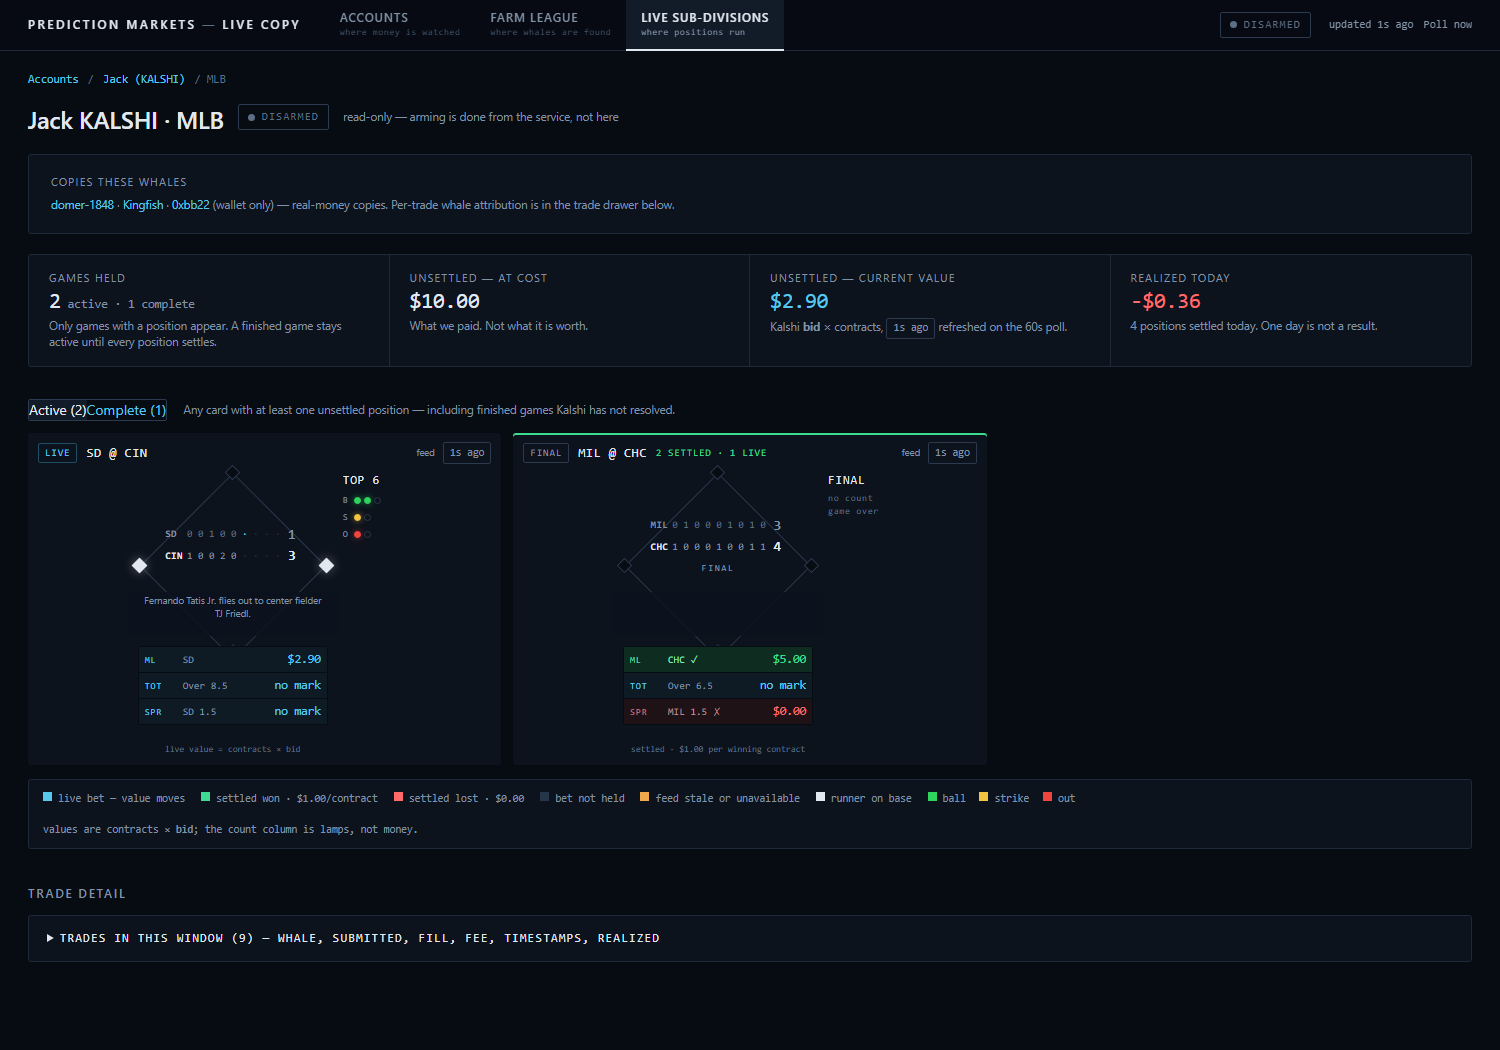
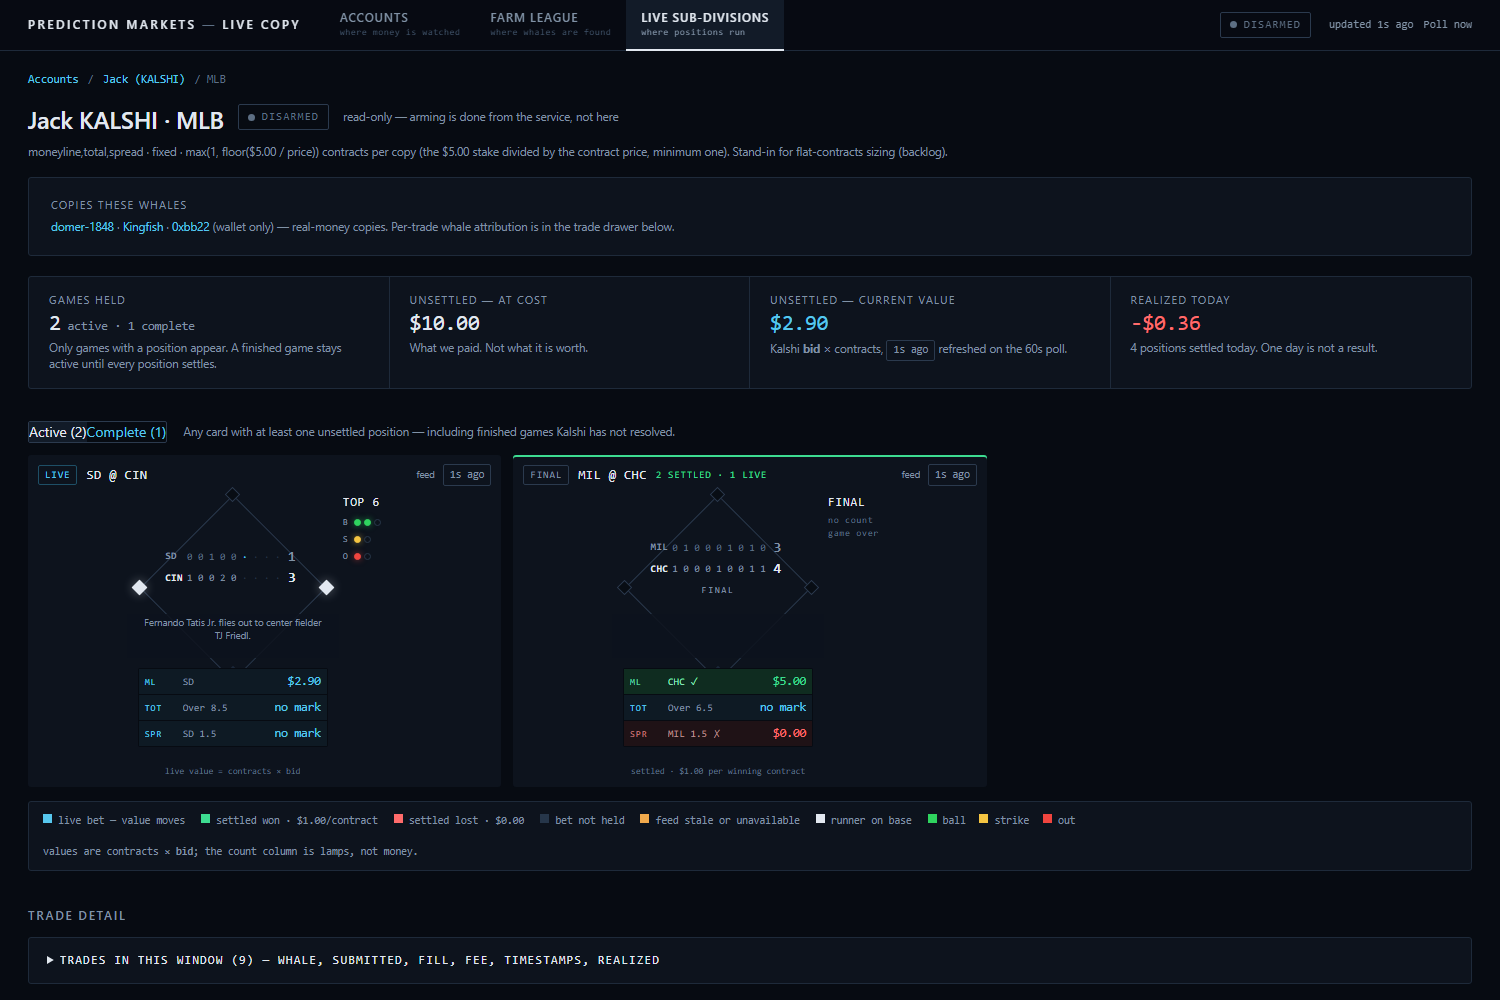
pm_web UI: reconcile pre-existing page tests to the redesign + restore dropped features
Ran the FULL prediction_markets suite: found the redesign broke page-render tests written for the old /live
table + shell (test_live_r3, test_stage2_nav/phase3, test_accounts_m2). Addressed honestly:
 - RESTORED genuine features the redesign dropped: the sizing-behaviour + config line on /live ('/usr/bin/bash.01 = 1
   contract, not a cent'), the account display-only limitation copy, the balance cadence hint. Gated the
   account aggregate figs on pm_traded (no zeroed P&L frame for a display-only account).
 - UPDATED test assertions where wording/markup legitimately changed to the copy-desk design (nav wraps label
   in <b>; arm badge 'GLOBAL DISARMED'; 'at cost'/'Cash by shard' labels; status-CELL markup for settlement!=
   exit since the drawer footer explains all four states; age shown as a chip). Safety/honesty intent preserved.
Remaining 16 full-dir failures are the pre-existing env-gap baseline (engine driver needs pykalshi, not in the
test venv) + a stale schema-15 assertion (base is schema 17) -- NOT pm_web, unchanged by this work.

diff --git a/trading_corp/prediction_markets/web/templates/pm_account.html b/trading_corp/prediction_markets/web/templates/pm_account.html
@@ -26,7 +26,7 @@
   </tbody></table>
   <p class="caveat" style="margin:10px 0 0">Only the division's funding shard can be spent on this division. Each balance shows its own age.</p>
   {% else %}
-  <p class="caveat" style="margin:10px 0 0">No balance snapshot yet{% if not shard_snap_table %} (the snapshot store is not present){% endif %}.</p>
+  <p class="caveat" style="margin:10px 0 0">No balance snapshot yet{% if not shard_snap_table %} (the snapshot store is not present){% else %} (snapshots are written every 5 minutes){% endif %}.</p>
   {% endif %}
 {% endmacro %}
 
@@ -35,11 +35,14 @@
   <div style="display:flex;align-items:center;gap:14px;margin-top:4px;flex-wrap:wrap">
     <h1>{{ account.account_label or account.account_id }} &middot; {{ account.venue or 'kalshi' }}</h1>
     <span class="tag trading">TRADING</span>
-    <span class="badge {{ 'armed' if global_arm.get('global_armed') else 'disarmed' }}"><span class="dot"></span>{{ 'ARMED' if global_arm.get('global_armed') else 'DISARMED' }}</span>
+    <span class="badge {{ 'armed' if global_arm.get('global_armed') else 'disarmed' }}"><span class="dot"></span>GLOBAL {{ 'ARMED' if global_arm.get('global_armed') else 'DISARMED' }}</span>
     <span class="caveat" style="margin-left:2px">read-only &mdash; arming is done from the service, not here</span>
   </div>
 
   <h2>Aggregate performance</h2>
+  {% if not account.pm_traded %}
+  <div class="panel pad"><p class="caveat" style="margin:0">This account is display-only &mdash; not traded by Prediction Markets, so there is no aggregate P&amp;L to show. Its balance below may still be spent by another system.</p></div>
+  {% else %}
   <div class="panel pad">
     <div class="figs">
       <div class="fig"><div class="lbl">Realized P&amp;L</div>
@@ -56,6 +59,7 @@
         <div class="caveat">Kalshi <b>bid</b> &times; contracts{% if value_as_of %}, {{ agechip(now_ts - value_as_of, 180) }}{% endif %}.</div></div>
     </div>
   </div>
+  {% endif %}
 
   <h2>Sub-divisions</h2>
   {% if account.subdivisions %}
@@ -79,7 +83,7 @@
   </div>
   {% endfor %}
   {% else %}
-  <div class="panel pad"><p class="caveat" style="margin:0">No PM sub-divisions on this account &mdash; <strong>not traded by Prediction Markets</strong>. Display-only; the balance below may still be spent by another system.</p></div>
+  <div class="panel pad"><p class="caveat" style="margin:0">This account has no Prediction Markets sub-divisions &mdash; <strong>not traded by Prediction Markets</strong>. It is display-only; the balance below may still be spent by another system.</p></div>
   {% endif %}
 
   <h2>Cash by shard</h2>

diff --git a/trading_corp/prediction_markets/web/templates/pm_live_subdivision.html b/trading_corp/prediction_markets/web/templates/pm_live_subdivision.html
@@ -147,6 +147,7 @@
     <span class="badge {{ 'armed' if arm.get('effective_armed') else 'disarmed' }}"><span class="dot"></span>{{ 'ARMED' if arm.get('effective_armed') else 'DISARMED' }}</span>
     <span class="caveat">read-only &mdash; arming is done from the service, not here</span>
   </div>
+  <p class="caveat" style="margin-top:6px">{{ sub.market_types or category|upper }} &middot; {{ sizing_summary }}</p>
 
   {% if warming %}
   <p class="caveat" style="margin-top:14px">Feed cache is warming up (first {{ poll_interval }}s poll not yet complete) &mdash; current values and scores appear once the poller has run.</p>

diff --git a/trading_corp/prediction_markets/web/templates/pm_accounts.html b/trading_corp/prediction_markets/web/templates/pm_accounts.html
@@ -84,7 +84,7 @@
     {% endfor %}
   </div>
   {% else %}
-  <div class="panel pad" style="margin-top:26px"><p class="caveat" style="margin:0">No accounts visible. An account appears here once provisioned and owned by your identity (admins see all).</p></div>
+  <div class="panel pad" style="margin-top:26px"><p class="caveat" style="margin:0">No accounts yet &mdash; an account appears here once provisioned (and owned by your identity; admins see all).</p></div>
   {% endif %}
 {% endblock %}
 

diff --git a/tests/prediction_markets/test_live_r3.py b/tests/prediction_markets/test_live_r3.py
@@ -108,39 +108,32 @@ def test_live_tile_shows_trade_count_once_traded(monkeypatch, tmp_path):
 
 
 def test_live_subdivision_honest_empty_wording(monkeypatch, tmp_path):
-    """Honest-empty for a sub-division that truly has not traded -- but the wording must NOT imply the engine does
-    not exist (the old 'Live copies arrive with the execution engine' is gone)."""
+    """Honest-empty for a sub-division that truly has not traded, with no wording implying the engine does not
+    exist. (Redesign: no game cards + an empty trade drawer; the old table's 'No open positions' is now 'no games'.)"""
     cl = _client(monkeypatch, tmp_path, schema=10, seed=True)   # no orders
     r = cl.get("/live/kalshi_jack/mlb")
     assert r.status_code == 200
-    assert "No live trades yet" in r.text
+    assert "No live trades yet" in r.text                       # the trade drawer's honest-empty
     assert "arrive with the execution engine" not in r.text
-    assert "No open positions" in r.text
+    assert "No active games held" in r.text                     # no game cards -> honest-empty, not an error
     # a sub-division that does not exist -> 404, never a fabricated page
     assert cl.get("/live/nope/mlb").status_code == 404
     assert cl.get("/live/kalshi_jack/nba").status_code == 404
 
 
 def test_live_subdivision_shows_real_filled_order(monkeypatch, tmp_path):
-    """★ THE DEFECT, DIRECT: a filled dry_run=0 order MUST render in the Live trades table AND as an open position.
-    Fixture mirrors the real first fill (KXMLBGAME YES, filled 1 @ 0.60)."""
+    """★ THE DEFECT, DIRECT: a filled dry_run=0 order MUST render -- in the trade drawer AND as an open card
+    bet-slot. Fixture mirrors the real first fill (KXMLBGAME YES, filled 1 @ 0.60). (Redesign: journal table ->
+    game card + drawer; the feed is unavailable in this offline test, so the matchup comes from the ticker and the
+    open value is an honest 'no mark' rather than a fabricated score/price.)"""
     cl = _client(monkeypatch, tmp_path, schema=10, seed=True, stake=0.01, orders=[{}])
-    r = cl.get("/live/kalshi_jack/mlb")
-    assert r.status_code == 200
-    html = r.text
-    # the empty placeholder is GONE now that a trade exists
-    assert "No live trades yet" not in html
-    # the trade row: ticker, derived market type, leg, entry, submitted vs fill, fee, status
-    assert "KXMLBGAME-26AUG301920CINCHC-CHC" in html
-    assert "moneyline" in html                    # derived from the KXMLBGAME series
-    assert "YES" in html and "ENTRY" in html
-    assert "$0.62" in html and "$0.60" in html    # submitted vs fill (distinct)
-    assert "$0.0084" in html                       # fee
-    assert "filled" in html
-    # the OPEN POSITION: held 1 YES contract, cost basis $0.60, sourced from the journal (honestly labelled)
-    assert "Currently held" in html
-    assert "No open positions" not in html
-    assert "not a live venue read" in html
+    html = cl.get("/live/kalshi_jack/mlb").text
+    assert "No live trades yet" not in html                      # a trade exists -> drawer populated
+    assert "KXMLBGAME-26AUG301920CINCHC-CHC" in html             # the raw ticker (drawer row detail)
+    assert "$0.62" in html and "$0.60" in html                   # submitted vs fill, distinct
+    assert ">OPEN</td>" in html                                  # the entry's terminal status
+    assert "CIN @ CHC" in html                                   # matchup from the ticker (no fabricated feed score)
+    assert "no mark" in html                                     # no cached mark in the offline test -> honest 'no mark', never $0
 
 
 def test_live_shows_plain_language_description_and_keeps_raw_ticker(monkeypatch, tmp_path):
@@ -178,23 +171,22 @@ def test_settlement_close_renders_as_SETTLED_not_EXIT(monkeypatch, tmp_path):
     SETTLED (won/lost) with the REALIZED P&L in place of the blank submitted/fill price."""
     cl = _client(monkeypatch, tmp_path, schema=10, seed=True, stake=0.01, orders=[{}, dict(_SETTLEMENT)])
     html = cl.get("/live/kalshi_jack/mlb").text
-    assert "SETTLED" in html                                   # the settlement is labelled distinctly
-    assert "lost" in html                                      # won=0 -> lost badge
-    assert "-0.6084" in html and "realized" in html            # the realized P&L IN PLACE OF a blank price
-    assert "ENTRY" in html                                     # the entry row still renders as ENTRY
-    # the settlement did NOT invent an order: it must not show a submitted/fill price or a TIF for that close
-    assert "immediate_or_cancel" in html                       # (the ENTRY row's TIF still shows -- present, not asserted-absent)
+    # the copy's terminal STATUS is SETTLED, NOT EXIT (the Cubs bug conflated the two). Key on the status CELL
+    # markup, not the bare words -- the drawer footer legitimately EXPLAINS all four states incl EXIT/SETTLED.
+    assert ">SETTLED</td>" in html and ">EXIT</td>" not in html
+    assert "-$0.61" in html                                    # the realized P&L (-0.6084 -> cents), not a blank price
 
 
 def test_real_whale_exit_still_renders_EXIT_not_settled(monkeypatch, tmp_path):
     """Guard the other side: a REAL whale-exit (is_exit=1 but close_source != 'settlement') keeps rendering EXIT,
     with its submitted/fill price -- only a settlement close is relabelled."""
-    exit_row = {"is_exit": 1, "close_source": "whale_exit", "client_order_id": "exit-coid",
+    # an ENTRY that the whale then exited (the drawer keys on the copy's entry, folding in its close state).
+    exit_row = {"is_exit": 1, "close_source": "whale_exit", "client_order_id": "exit-coid", "signal_id": "exsig",
                 "submitted_price": 0.41, "fill_price": 0.40, "fee": 0.006, "order_side": "ask"}
-    cl = _client(monkeypatch, tmp_path, schema=10, seed=True, stake=0.01, orders=[dict(exit_row)])
+    cl = _client(monkeypatch, tmp_path, schema=10, seed=True, stake=0.01, orders=[{}, dict(exit_row)])
     html = cl.get("/live/kalshi_jack/mlb").text
-    assert "EXIT" in html and "SETTLED" not in html            # a placed exit is EXIT, never SETTLED
-    assert "$0.40" in html                                     # its real fill price still shows
+    assert ">EXIT</td>" in html and ">SETTLED</td>" not in html   # a placed exit is EXIT, never SETTLED (status cell)
+    assert "$0.40" in html                                        # its exit fill price still shows (row detail)
 
 
 def test_sizing_display_states_behaviour_not_misleading_cent(monkeypatch, tmp_path):
@@ -221,9 +213,9 @@ def test_dashboard_card_enabled(monkeypatch, tmp_path):
     cl = _client(monkeypatch, tmp_path, schema=10, seed=True)
     r = cl.get("/")
     assert r.status_code == 200
-    assert ">Accounts</a>" in r.text                     # the new top-of-hierarchy nav
+    assert ">Accounts</b>" in r.text                     # the new top-of-hierarchy nav
     assert 'href="/account/kalshi_jack"' in r.text       # the seeded account links to its per-account page
-    assert "GLOBAL ARM" in r.text                        # R4: global arm state visible (read-only)
+    assert "GLOBAL DISARMED" in r.text                   # R4: global arm state visible (read-only; no arm rows -> disarmed)
     assert "coming in P3" not in r.text
 
 
@@ -236,7 +228,9 @@ def test_live_is_read_only_no_order_path_even_with_a_fill(monkeypatch, tmp_path)
     assert cl.post("/live/kalshi_jack/mlb").status_code == 405
     for path in ("/live", "/live/kalshi_jack/mlb"):
         html = cl.get(path).text.lower()
-        for token in ("<form", "place order", "/order", 'type="submit"', "hx-post", "disarm"):
+        # read-only: no order path / no arm-disarm CONTROL. The redesign DISPLAYS the read-only arm STATUS
+        # ('DISARMED' badge), so we forbid an arm/disarm ACTION endpoint ('/arm'), not the status word.
+        for token in ("<form", "place order", "/order", 'type="submit"', "hx-post", "/arm"):
             assert token not in html, (path, token)
 
 
@@ -244,7 +238,7 @@ def test_vocabulary_no_internal_name_leak(monkeypatch, tmp_path):
     cl = _client(monkeypatch, tmp_path, schema=10, seed=True, stake=0.01, orders=[{}])
     for path in ("/live", "/live/kalshi_jack/mlb"):
         html = cl.get(path).text
-        assert ">Accounts</a>" in html                 # M2 R1: renders under the pm_shell (Accounts nav), one shell
+        assert ">Accounts</b>" in html                 # M2 R1: renders under the pm_shell (Accounts nav), one shell
         for leak in ("pm_subdivision", "pm_account", "secret_ref", "owner_identity", "'pinned'", "'candidate'"):
             assert leak not in html, (path, leak)
 

diff --git a/tests/prediction_markets/test_accounts_m2.py b/tests/prediction_markets/test_accounts_m2.py
@@ -53,18 +53,18 @@ def _client(monkeypatch, tmp_path):
 def test_accounts_overview_lists_both_with_honest_pnl(monkeypatch, tmp_path):
     cl = _client(monkeypatch, tmp_path)
     html = cl.get("/").text
-    assert ">Accounts</a>" in html                                    # the new top-of-hierarchy nav
+    assert ">Accounts</b>" in html                                    # the new top-of-hierarchy nav (copy-desk wraps label in <b>)
     # jack: PM-traded -> realized/win-loss/SAMPLE/open shown separately, caveat with the number
     assert 'href="/account/kalshi_jack"' in html and "Jack (KALSHI)" in html
     assert "Realized" in html and "settled" in html and "1W / 1L" in html   # W/L split (win + loss seeded)
-    assert "Open (at cost)" in html
-    assert "thin sample" in html or "settled sample" in html          # the caveat travels with the number
+    assert "at cost" in html                                          # open exposure at cost (design label)
+    assert "too small a sample" in html or "outcome, not proven edge" in html   # the thin-sample caveat travels with the number
     # karen: display-only -> the limitation is in the COPY, not an empty frame
     assert 'href="/account/kalshi_karen"' in html and "Karen" in html
     assert "not traded by Prediction Markets" in html
     # R4: global arm state visible (read-only), NO control. Check for actual control ELEMENTS/endpoints -- NOT the
     # bare word "disarm", which legitimately appears in the read-only copy "arm/disarm is a CLI action".
-    assert "GLOBAL ARM" in html
+    assert "GLOBAL DISARMED" in html                                  # R4: global arm state visible (read-only; no arm rows -> disarmed)
     for tok in ("hx-post", "<form", "<button", "<input", "/attach/"):
         assert tok not in html.lower(), tok
 
@@ -76,8 +76,8 @@ def test_account_page_jack_shows_subdivision_pnl(monkeypatch, tmp_path):
     assert "1 / 1" in html or "1W / 1L" in html                       # win/loss split visible
     assert "settled" in html.lower()                                  # sample size shown
     assert 'href="/live/kalshi_jack/mlb"' in html                     # links down to the live sub-division
-    assert "cost basis" in html.lower()                               # open at cost, not mark
-    assert "GLOBAL ARM" in html
+    assert "at cost" in html.lower()                                  # open at cost, not mark
+    assert "GLOBAL DISARMED" in html                                  # R4: global arm state visible (read-only; no arm rows -> disarmed)
     # read-only: no control ELEMENTS ("disarm" as a word is fine -- it is in the read-only "arm/disarm is a CLI action" copy)
     for tok in ("hx-post", "<form", "<button", "<input", "/attach/"):
         assert tok not in html.lower(), tok
@@ -120,9 +120,9 @@ def test_balance_section_renders_split_and_age_band(monkeypatch, tmp_path):
     cl = _client(monkeypatch, tmp_path)
     _write_snap(tmp_path, "kalshi_jack", {0: 0.0081, 3: 473.5897})
     html = cl.get("/account/kalshi_jack").text
-    assert "Balance (per shard)" in html
+    assert "Cash by shard" in html                                   # the balance section (design heading)
     assert "Shard 3" in html and "473.59" in html                    # the per-shard split (the point, not the total)
-    assert "pm-age-fresh" in html and "min ago" in html              # the age band is obvious, not a raw timestamp
+    assert 'class="chip' in html and "ago" in html                   # the age band is an obvious chip, not a raw timestamp
 
 
 def test_balance_honest_empty_present_but_no_snapshot(monkeypatch, tmp_path):

diff --git a/tests/prediction_markets/test_stage2_phase3.py b/tests/prediction_markets/test_stage2_phase3.py
@@ -44,7 +44,7 @@ def test_root_serves_dashboard(tmp_path, monkeypatch):
     assert r.status_code == 200
     body = r.text
     # M2 R1: / is the ACCOUNTS OVERVIEW; Farm League a nav peer. No pm_account seeded -> honest-empty accounts.
-    assert ">Accounts</a>" in body and 'href="/farm"' in body
+    assert ">Accounts</b>" in body and 'href="/farm"' in body
     assert "No accounts yet" in body
 
 
@@ -111,7 +111,7 @@ def test_whale_pages_render_under_one_shell(tmp_path, monkeypatch):
         assert r.status_code == 200                          # renders => no dangling `extends pm_base.html` (else 500)
         body = r.text
         # the pm_shell nav (M2 R1: Accounts / Farm League) proves ONE shell, not the old pm_base nav
-        assert ">Accounts</a>" in body and 'href="/farm"' in body
+        assert ">Accounts</b>" in body and 'href="/farm"' in body
 
 
 # ── every internal link points at the hierarchy, never the temp/legacy paths ──────────────────────

diff --git a/tests/prediction_markets/test_stage2_nav.py b/tests/prediction_markets/test_stage2_nav.py
@@ -54,7 +54,7 @@ def test_dashboard_route_resolves(tmp_path, monkeypatch):
     # M2 R1: / is the ACCOUNTS OVERVIEW; Farm League stays a nav peer; the flat "Live sub-divisions" nav item is
     # superseded by per-account -> sub-divisions. No pm_account seeded here (schema 9) -> honest-empty accounts.
     assert "Farm League" in body and 'href="/farm"' in body
-    assert ">Accounts</a>" in body                 # the new top-of-hierarchy
+    assert ">Accounts</b>" in body                 # the new top-of-hierarchy (copy-desk nav wraps the label in <b>)
     assert "No accounts yet" in body               # no pm_account seeded -> honest-empty (never an error)
 
 
